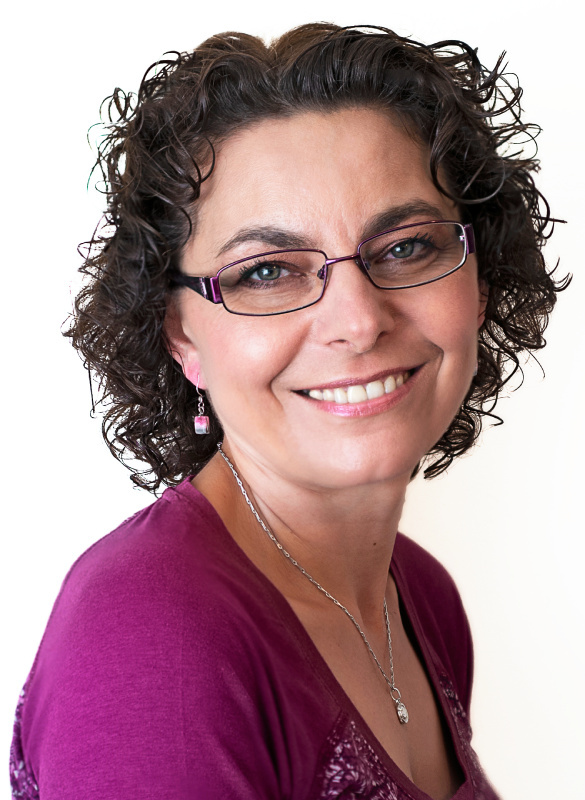
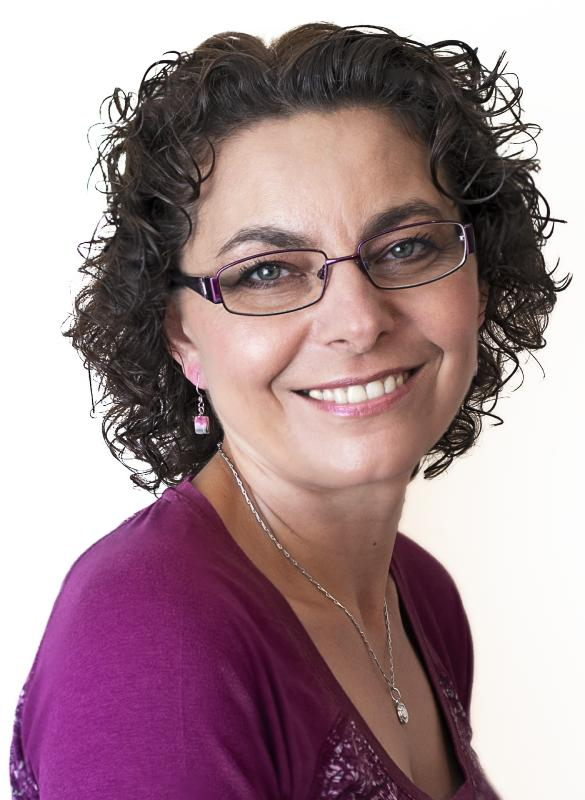
SEO improvements - img

diff --git a/app/pages/index.vue b/app/pages/index.vue
@@ -4,7 +4,11 @@
         <BRow>
             <BCol lg="6" class="left">
                 <div class="column-box">
-                    <img src="@/assets/images/grazyna-portrait.jpg" alt="Grazyna Godlewska-Vernon portrait" width="585" height="800">
+                    <picture>
+                        <source srcset="@/assets/images/grazyna-portrait.avif" type="image/avif">
+                        <source srcset="@/assets/images/grazyna-portrait.webp" type="image/webp">
+                        <img src="@/assets/images/grazyna-portrait.jpg" alt="Grazyna Godlewska-Vernon portrait" width="585" height="800">
+                    </picture>
                 </div>
             </BCol>
             <BCol lg="6" class="right">
